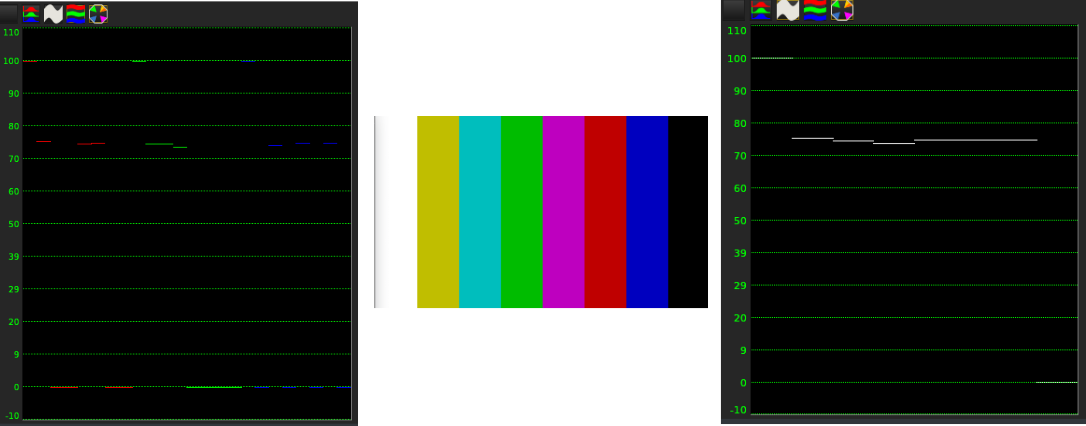
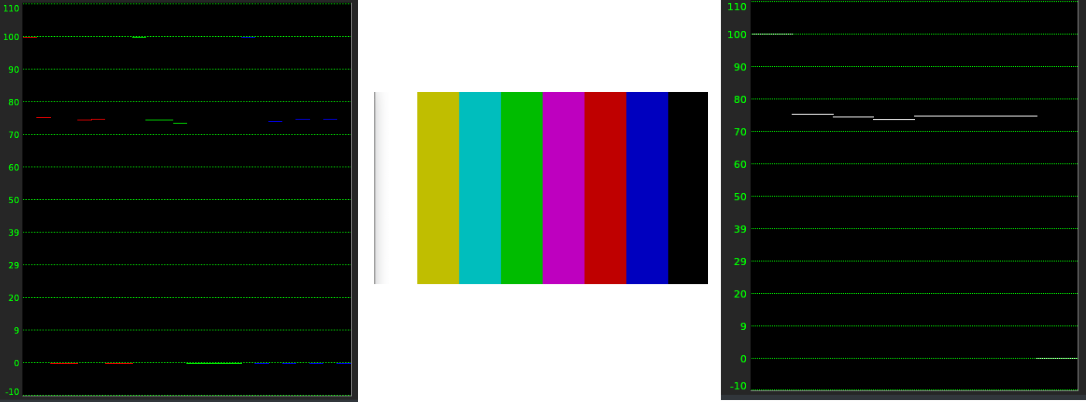
Videoscope update by Andrea and some minor changes

diff --git a/parts/Plugins.tex b/parts/Plugins.tex
@@ -2857,35 +2857,36 @@ This effect applies a traditional \textit{darkroom} technique, the so called \te
 \subsection{Videoscope}%
 \label{sub:videoscope}
 
-Videoscope summarizes intensity and color on a calibrated display. The Videoscope can be used in conjunction with other \CGG{} plugins such as \textit{Color 3 Way}, \textit{YUV}, \textit{Brightness}, \textit{Color Balance} or \textit{Histogram} to accurately correct video for contrast, clarity, conformance (to normalize various videos shot under different light settings), or for cinematic purposes. The human eye is not specialized to match precise level of light and color, but Videoscope is. Videoscope contains three displays: the waveform scope and the vectorscope, plus the histograms (figure~\ref{fig:videoscope01}).
+Videoscope summarizes intensity and color on a calibrated display. The Videoscope can be used in conjunction with other \CGG{} plugins such as \textit{Color 3 Way}, \textit{YUV}, \textit{Brightness}, \textit{Color Balance} or \textit{Histogram} to accurately correct video for contrast, clarity, conformance (to normalize various videos shot under different light settings), or for cinematic purposes. The human eye is not specialized to match precise level of light and color, but Videoscope is. Videoscope contains three displays: the waveform scope and the vectorscope, plus the histograms (figure~\ref{fig:videoscope01}). Instead of applying the plugin to the tracks/edits we want to examine, we can use the Videoscope button in the Composer and Viewer windows. The Videoscope menu window has many options. From the pulldown menu (\textit{Scopes}) we can choose between two histograms (Histogram and Histogram RGB); three waveforms (Waveform, Waveform RGB and Waveform Ply) and two vectorscopes (Vectorscope and VectorWheel). The \textit{Smooth} checkbox serves to make the graph more homogeneous while the \textit{sliders} allow for varying the 'solidity' of the dots shown. You can get to the subpixel
+level for precision.
 
 \begin{figure}[hbtp]
     \centering
-    \includegraphics[width=0.8\linewidth]{videoscope01.png}
+    \includegraphics[width=1.0\linewidth]{videoscope01.png}
     \caption{GUI of the Videoscope. You see Histogram, RGB Parade and Vectorscope}
     \label{fig:videoscope01}
 \end{figure}
 
-\subsubsection*{Waveform/RGB Parade}%
-\label{ssub:waveform_rgb_parade}
+\subsubsection*{Waveform/RGB Parade/Waveform Ply}%
+\label{ssub:waveform_rgb_parade_ply}
 
-The \textit{Waveform Scope} displays image intensity (luminance) versus image $X$ position. The \textit{RGB Parade Scope} displays image RGB intensity versus image $X$ position (one graph per channel). The Waveform Scope appears on the left side or in the middle of the Videoscope window. The display is calibrated vertically from $0\%$ intensity (black) at the bottom up to $100\%$ intensity (white) at the top. Each column of pixels in the image corresponds to one column of pixels in the Waveform Scope (figure~\ref{fig:videoscope02}). Note that the height of the values of a waveform/RGB Parade corresponds exactly to the values on the $x\, axis$ in the \textit{histogram}. A vertical/horizontal correspondence is therefore obtained.
+The \textit{Waveform Scope} displays image intensity (luminance) versus image $X$ position. The \textit{Waveform RGB} (or RGB Parade) displays image RGB intensity versus image $X$ position (one graph per channel). The \textit{Waveform Ply} shows the three channels in a single graph. The Waveform Scope appears on the left side or in the middle of the Videoscope window. The display is calibrated vertically from $0\%$ intensity (black) at the bottom up to $100\%$ intensity (white) at the top. Each column of pixels in the image corresponds to one column of pixels in the Waveform Scope (figure~\ref{fig:videoscope02}). Note that the height of the values of a waveform/RGB Parade corresponds exactly to the values on the $x\, axis$ in the \textit{histogram}. A vertical/horizontal correspondence is therefore obtained.
 
 \begin{figure}[hbtp]
     \centering
-    \includegraphics[width=0.9\linewidth]{videoscope02.png}
+    \includegraphics[width=1.0\linewidth]{videoscope02.png}
     \caption{Colortest 75\% with RGB Parade (left) and Waveform (right)}
     \label{fig:videoscope02}
 \end{figure}
 
 On the left is shown RGB Parade: instead of the color shadows as in figure~\ref{fig:videoscope01}, we have lines representing the color bar test at $75\%$. They are pure colors, so all pixels have the same value. In fact, they are all at the level of $75\%$ except for the $100\%$ white band and the $0\%$ black band. In the waveform on the right, we have the same behavior with regard to luminance: the white band is $100\%$; the black band is $0\%$ and all the others $75\%$.
 
-The Waveform scope helps correct image light levels for contrast range or for conforming light levels on various scenes originally shot on different light settings (figure~\ref{fig:videoscope03}).
+The Waveform scope helps correct image light levels for contrast range or for conforming light levels on various scenes originally shot on different light settings (figure~\ref{fig:videoscope03}). The same can be done with RGB Parade or the convenient overlapping representation (Waveform Ply).
 
 \begin{figure}[hbtp]
     \centering
-    \includegraphics[width=0.7\linewidth]{videoscope03.png}
-    \caption{Example of waveform}
+    \includegraphics[width=1.0\linewidth]{videoscope03.png}
+    \caption{Examples of waveform, waveform RGB and waveform Ply}
     \label{fig:videoscope03}
 \end{figure}
 
@@ -2894,13 +2895,13 @@ The Waveform scope helps correct image light levels for contrast range or for co
 
 \begin{enumerate}
     \item Add the \textit{Brightness/Contrast}, \textit{Histogram}, \textit{Color 3 Way} or another video adjustment effect on your track/edit.
-    \item Add the Videoscope effect on the track below. Make sure that it is placed below so it can see the adjustment effect's results. If it is not, right-click and move it down.
+    \item Add the Videoscope effect on the track below. Make sure that it is placed below so it can see the adjustment effect's results. If it is not, right-click and move it down. Or do not use the plugin but activate the Videoscope button in the Compositor window.
     \item Show both the effect and Videoscope.
     \item Adjust the contrast while observing the waveform to match the desired light level.
-    \item Precise adjustments can be made by measuring the values on the waveform with the crosshair (by click with LMB, and reading numeric values on top left of the window) and reporting these numbers in the effects window (\textit{Histogram Bézier}, for example).
+    \item Precise adjustments can be made by measuring the values on the waveform with the crosshair (by clicking LMB, and reading numeric values on top left of the window) and reporting these numbers in the effects window (\textit{Histogram Bézier}, for example).
 \end{enumerate}
 
-For instance, if you are looking for maximum contrast range, adjust the \textit{Brightness/Contrast} levels to align the darkest point on the scope with the $0\%$ level and the brightest portion with $100\%$. Anything above $100\%$ is over saturated. Limits which may be highlighted with checkbox controls.
+For example, if you are looking for maximum contrast range, adjust the \textit{Brightness/Contrast} levels to align the darkest point on the scope with the $0\%$ level and the brightest portion with $100\%$. Anything above $100\%$ is over saturated. Limits may be highlighted with checkbox controls.
 
 \subsubsection*{HDTV or sRGB (ITU-R BT.709)}%
 \label{ssub:hdtv_srgb_bt709}
@@ -2920,9 +2921,33 @@ If you are producing a video for NTSC television broadcast, keep the intensity b
 \subsubsection*{Vectorscope}%
 \label{ssub:Vectorscope}
 
-The Vectorscope displays \textit{hue} (angle on the color wheel) and \textit{saturation} (radius). Each pixel in the source image is drawn as a point on the color wheel. The distance from the center is the color saturation. Gray values are close to the center, and high saturation values are near the perimeter ($100\%$). In the center there is pure white ($0\%$). By clicking with the mouse on the color wheel appear radius and circle whose values of hue and saturation are shown at the top left of the window, similar to the values of $X$ and luminance of the Waveform and RGB Parade (figure~\ref{fig:videoscope04}).
+The Vectorscope displays \textit{hue} (angle on the color wheel) and \textit{saturation} (radius). Each pixel in the source image is drawn as a point on the color wheel. The distance from the center is the color saturation. Gray values are close to the center, and high saturation values are near the perimeter ($100\%$). In the center there is pure white ($0\%$). By clicking with the mouse on the color wheel a radius and circle 
+will appear whose values of hue and saturation are shown at the top left of the window, similar to the values of $X$ and luminance of the Waveform and RGB Parade (figure~\ref{fig:videoscope05}).
 
-Vectorscope is used as monitor with other plugins to correct color, adjust image tint, and apply other effects for cinematic effects, image correction, or to conform images to look the same. For example, skin tones are found along an axis (\textit{+ I-line}) between yellow and red, and between $0$ and $50\%$ saturation values. The blue of the sky is more or less along the opposite axis to that of the skin (\textit{- I-line}), with a much wider saturation range.
+\begin{figure}[hbtp]
+	\centering
+	\includegraphics[width=0.9\linewidth]{videoscope05.png}
+	\caption{Vectorscope (with I-Line) and VectorWheel (with IQ-Hue-Tics reticule)}
+	\label{fig:videoscope05}
+\end{figure}
+
+Note that when you choose \textit{VectorWheel} from \textit{Scopes} pulldown, the \textit{Overlay} pulldown
+appears where you can choose between different grids. In addition, any number of user-supplied grid patterns
+can be added in the form of a square image of type png.  The user can design and maintain individual grid
+overlays for various purposes.  The user would keep their overlays in a safe spot on their disk and make
+a copy of them in the \{cinelerra\_pathname\}/bin/plugins/scopes every time a new version of \CGG{} is installed.
+
+Generally the Vectorscope has the following uses:
+
+\begin{enumerate}
+	\item Compare saturation levels (radius) between Edits.
+	\item Compare the hues (angle) between Edits.
+	\item Compare skin tones, sky and vegetation.
+	\item Display the color balance or color cast.
+	\item Check the legal limits of the video signal.
+\end{enumerate}
+
+ For example, skin tones are found along an axis (\textit{+ I-line}) between yellow and red, and between $0$ and $50\%$ saturation values. The blue of the sky is more or less along the opposite axis to that of the skin (\textit{- I-line}), with a much wider saturation range.
 
 \begin{figure}[hbtp]
     \centering

diff --git a/parts/Windows.tex b/parts/Windows.tex
@@ -570,7 +570,8 @@ On the bottom of the window, there are many
 of the same transport buttons and controls that are available in the Program window.
 They work the same as in the Program window and also have tooltips that are visible 
 when you mouse over each of the icons so their use is fairly obvious.  However,
-of particular note is the button \textit{Click to play} which is described in~\ref{sub:click_to_play_in_viewer_and_compositor}.
+of particular note is the button \textit{Click to play} which is described in~\ref{sub:click_to_play_in_viewer_and_compositor}.  Next is the \textit{Videoscope} button which is used to enable the scopes window
+without having to apply the filter to the tracks/edits.
 
 Next to all of these controls all the way to the right side, there is a \textit{zoom menu} and a \textit{tally light}.  The \textit{zoom menu} has a pulldown with different settings that you can choose from
 or you can just use the tumbler arrows to the right. Generally when just getting started, you
@@ -1165,7 +1166,7 @@ the timebar above the transport buttons.
 \begin{figure}[htpb]
     \centering
     \includegraphics[width=0.99\linewidth]{viewer_window.png}
-    \caption{Viewer Window - note the green/white arrow "Play" button left of 001484}
+    \caption{Viewer Window - the red arrow "Play" button is left of the Videoscope button}
     \label{fig:viewer_window}
 \end{figure}
 
@@ -1181,9 +1182,10 @@ In order to view media in the window, you have to load it as follows:
 
 Note that you can have multiple Viewer windows open with different or even the same media asset.
 After the media is loaded you can use the transport buttons to play, rewind, stop, and so on, or
-for fast previewing drag with the LMB anywhere on the timebar slider.  A few more options
-available in the Viewer window can be accessed with a RMB click on the display.  These functions
-are listed next.
+for fast previewing drag with the LMB anywhere on the timebar slider.  There is also the Videoscope
+button which is to used to enable the scopes window without having to apply the filter to the tracks/edits.
+A few more options available in the Viewer window can be accessed with a RMB click on the display.
+These functions are listed next.
 
 \begin{enumerate}
     \item  Switch to a fullscreen display by choosing \textit{Fullscreen}.  To switch back, click
@@ -1265,7 +1267,7 @@ There are either a left or right resize pointer and you can click and drag in ei
 \begin{figure}[htpb]
     \centering
     \includegraphics[width=1.0\linewidth]{timebar2.png}
-    \caption{A left-facing arrow on the right side of the blue slider bar is used to drag the bar.}
+    \caption{A left-facing arrow on the right side of the reddish slider bar is used to drag the bar.}
     \label{fig:timebar2}
 \end{figure}
 

diff --git a/parts/Trouble.tex b/parts/Trouble.tex
@@ -149,6 +149,13 @@ Some messages you may see in the startup window may or may not be errors. Some e
 This is not a problem. Basically, when you open a file if a stream has a known duration, there is no message. If the duration is unknown, it is estimated by using the File Size and Bitrate to estimate the duration. This may just indicate that the stream number \CGG{} uses versus ffmpeg may be counted differently.
 \bigskip
 
+\textit{FFMPEG::scan: codec open failed} followed by
+\newline 
+\textit{FFMPEG::scan:file=} \quad \texttt{your directory/filename}
+
+This is not a problem. \CGG{} is building an index for your file in order to better seek.  In that process, different methods are tried until a successful scan is complete.
+\bigskip
+
 \textit{AudioALSA::write\_buffer err -32(Broken pipe) at sample \#}
 
 This indicates that there is something wrong with the audio. Some reasons for this are:

diff --git a/parts/Introduction.tex b/parts/Introduction.tex
@@ -128,6 +128,8 @@ programmers.
                     \item Title plugin virtually unlimited script size with many changeable attributes such as size, blink, color.
                     \item Motion Graphics using the Sketcher plugin to create elements such as ellipses, rectangles and shapes for simpler motion graphics.
                     \item Open EDL for editing clips, nested clips, and xml files while working on a Project.
+                    \item The Vectorscope option in the Videoscope plugin allows for the use of any number
+of user-supplied grid patterns as an Overlay.
                 \end{itemize}
 \end{description}
 
